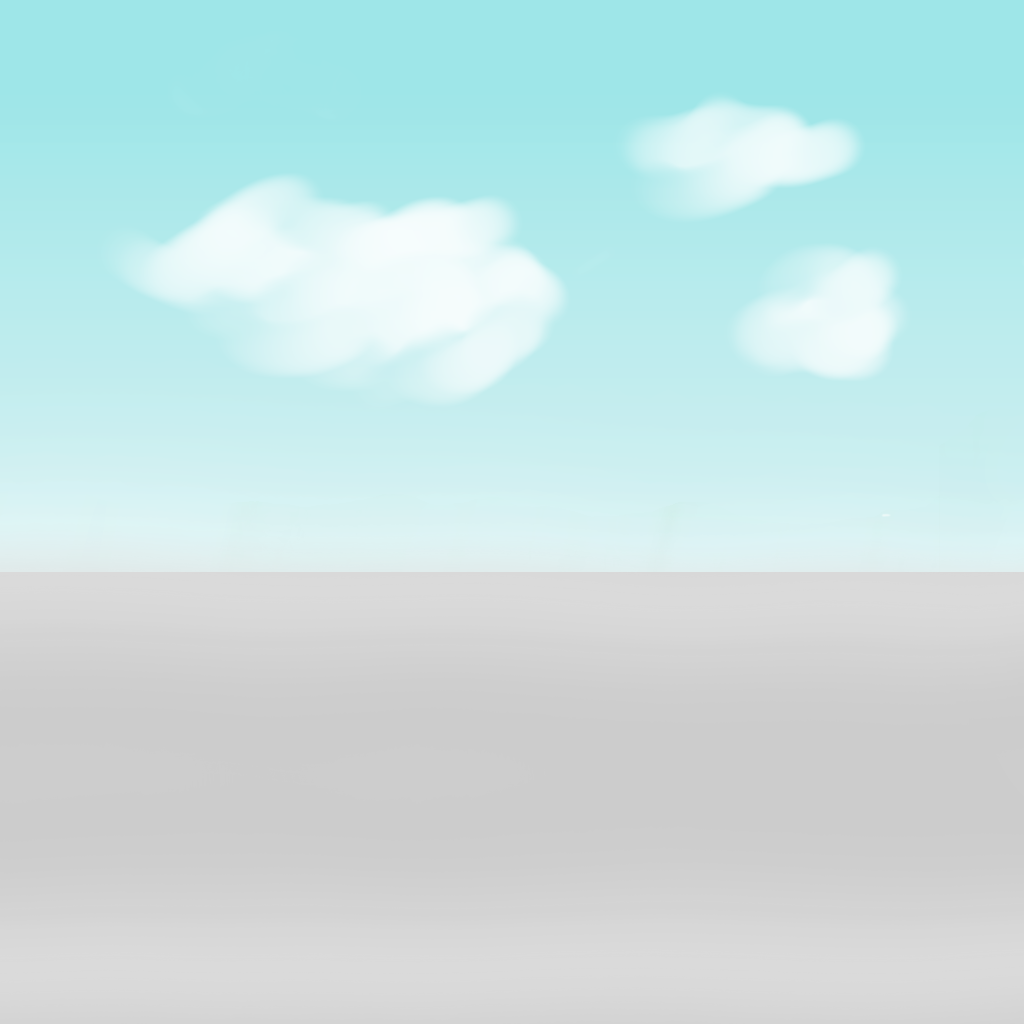
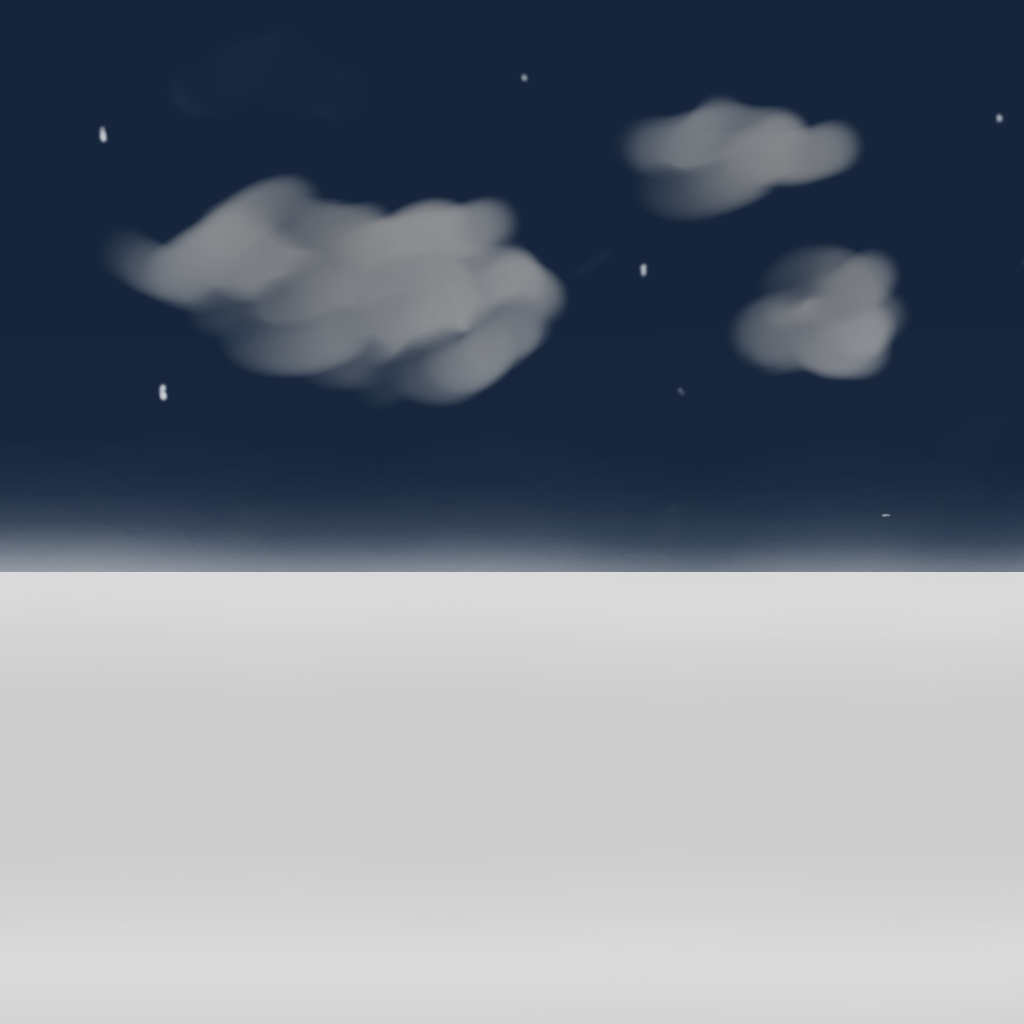
NightTimeBox

diff --git a/StortSpelprojekt/Project/SkyBoxRenderer.cpp b/StortSpelprojekt/Project/SkyBoxRenderer.cpp
@@ -69,7 +69,8 @@ void SkyBoxRenderer::BuildCubeMap(std::string skyboxFolderName)
 
 SkyBoxRenderer::SkyBoxRenderer()
 {
-	BuildCubeMap("DayTime");
+	//BuildCubeMap("DayTime");
+	BuildCubeMap("NightTIme");
 
 	std::string byteCode;
 	//Shaders
